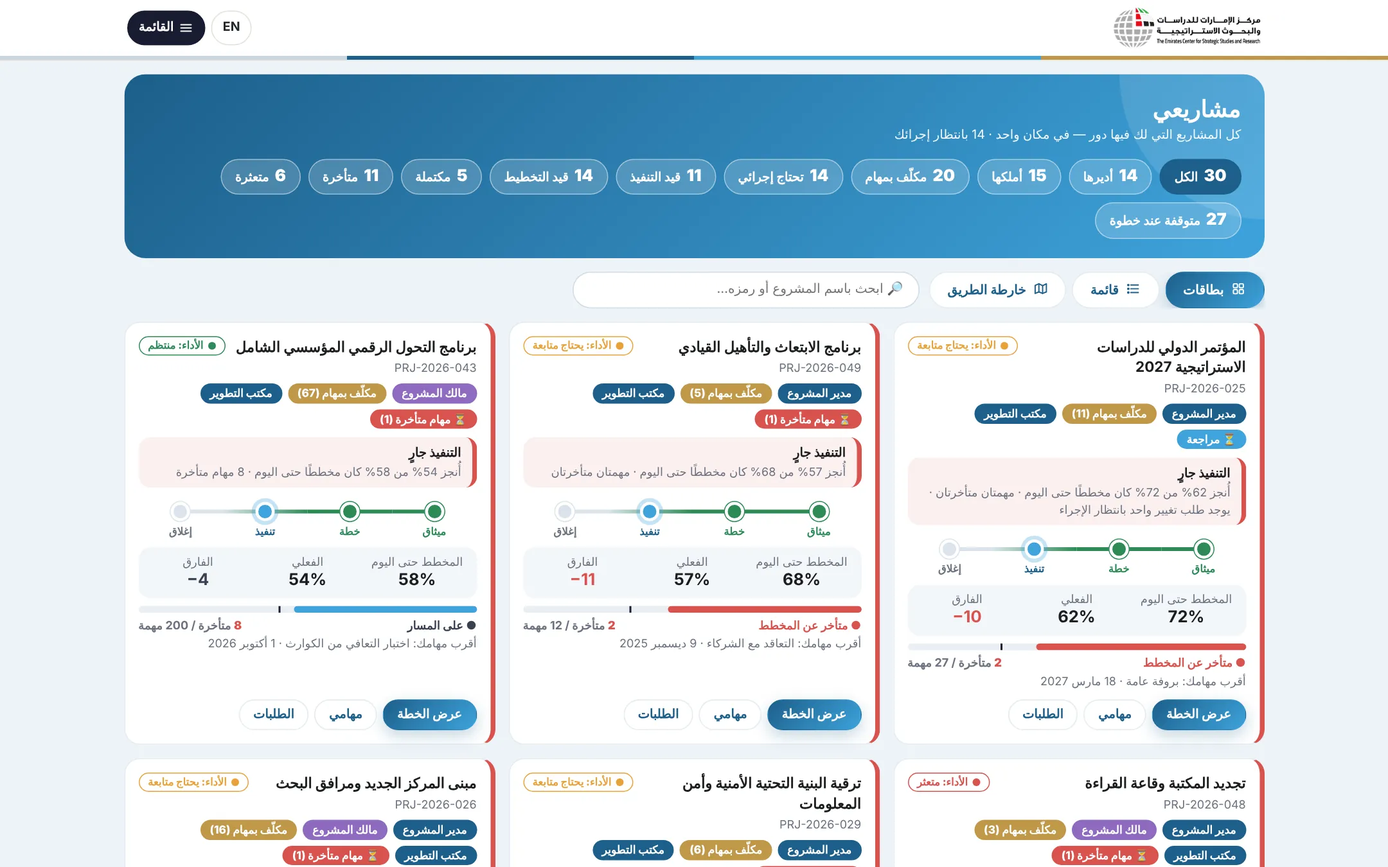
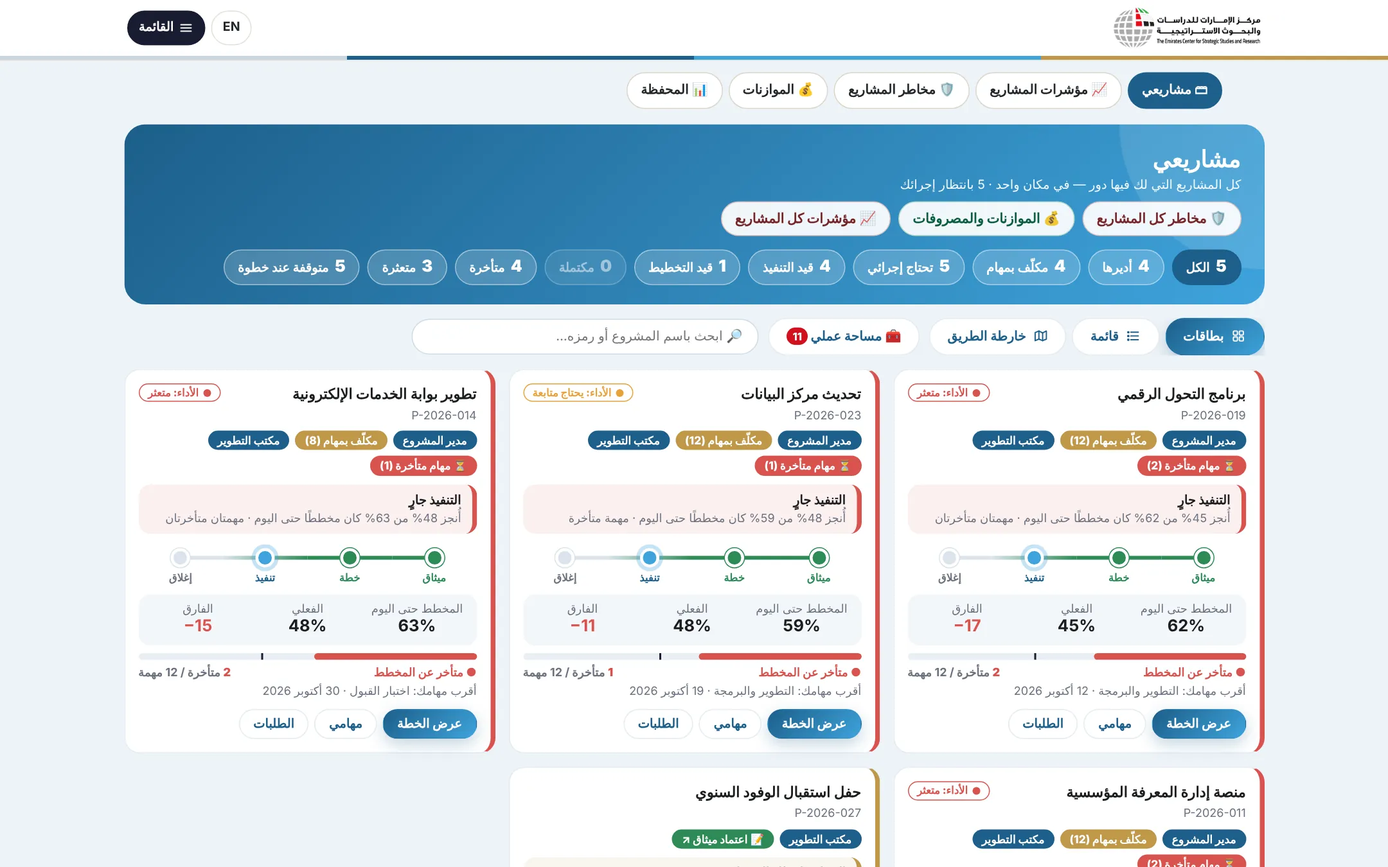
Audit fixes: help guide covers My workspace, updates, analysis board, audit log and optional features; risk review saves the new score before setting the next review date; pages load from the network first so new versions show on the first open; tour My projects screen refreshed
Claude-Session: https://claude.ai/code/session_01AUYYeyahPGT9XEoL5uypg9

diff --git a/tour/scenes.js b/tour/scenes.js
@@ -1,1 +1,1 @@
-window.SCENES={"phone":{"m":true,"ar":{"img":"img/phone_ar.webp","w":430,"h":932,"t":{"hero":{"x":14,"y":76,"w":402,"h":200},"nav":{"x":12,"y":847,"w":406,"h":75},"chat":{"x":14,"y":779,"w":54,"h":54},"create":{"x":298,"y":786,"w":119,"h":47},"tasksfab":{"x":282,"y":854,"w":63,"h":61}}},"en":{"img":"img/phone_en.webp","w":430,"h":932,"t":{"hero":{"x":14,"y":76,"w":402,"h":222},"nav":{"x":12,"y":847,"w":406,"h":75},"chat":{"x":362,"y":779,"w":54,"h":54},"create":{"x":14,"y":786,"w":136,"h":47},"tasksfab":{"x":85,"y":854,"w":63,"h":61}}}},"home":{"m":false,"ar":{"img":"img/home_ar.webp?v=2","w":1440,"h":900,"t":{"hero":{"x":234,"y":76,"w":972,"h":200},"summary":{"x":258,"y":138,"w":924,"h":45},"search":{"x":308,"y":197,"w":824,"h":45},"menu":{"x":234,"y":11,"w":81,"h":36},"lang":{"x":321,"y":11,"w":42,"h":36},"journey":{"x":234,"y":288,"w":972,"h":56},"tabs2":{"x":234,"y":358,"w":972,"h":41}}},"en":{"img":"img/home_en.webp?v=2","w":1440,"h":900,"t":{"hero":{"x":234,"y":76,"w":972,"h":200},"summary":{"x":258,"y":138,"w":924,"h":45},"search":{"x":308,"y":197,"w":824,"h":45},"menu":{"x":1125,"y":11,"w":81,"h":36},"lang":{"x":1066,"y":11,"w":53,"h":36},"journey":{"x":234,"y":288,"w":972,"h":56},"tabs2":{"x":234,"y":358,"w":972,"h":41}}}},"menu":{"m":false,"ar":{"img":"img/menu_ar.webp?v=2","w":1440,"h":900,"t":{"drawer":{"x":234,"y":53,"w":250,"h":402}}},"en":{"img":"img/menu_en.webp?v=2","w":1440,"h":900,"t":{"drawer":{"x":956,"y":53,"w":250,"h":402}}}},"board":{"m":false,"ar":{"img":"img/board_ar.webp?v=2","w":1440,"h":900,"t":{"scope":{"x":260,"y":149,"w":920,"h":37},"chips":{"x":260,"y":194,"w":920,"h":33},"legend":{"x":249,"y":280,"w":123,"h":35},"cols":{"x":249,"y":326,"w":942,"h":552},"col1":{"x":1011,"y":326,"w":180,"h":548},"col3":{"x":630,"y":326,"w":180,"h":548},"card":{"x":1021,"y":366,"w":162,"h":112},"act":{"x":1068,"y":447,"w":103,"h":25},"pj":{"x":1029,"y":447,"w":33,"h":25},"views":{"x":1001,"y":98,"w":142,"h":31},"more":{"x":1041,"y":280,"w":150,"h":35},"create":{"x":1308,"y":837,"w":119,"h":47},"chat":{"x":14,"y":765,"w":54,"h":54}}},"en":{"img":"img/board_en.webp?v=2","w":1440,"h":900,"t":{"scope":{"x":260,"y":149,"w":920,"h":37},"chips":{"x":260,"y":194,"w":920,"h":33},"legend":{"x":1098,"y":280,"w":93,"h":35},"cols":{"x":249,"y":326,"w":942,"h":552},"col1":{"x":249,"y":326,"w":180,"h":548},"col3":{"x":630,"y":326,"w":180,"h":548},"card":{"x":257,"y":366,"w":162,"h":112},"act":{"x":269,"y":447,"w":103,"h":25},"pj":{"x":378,"y":447,"w":33,"h":25},"views":{"x":342,"y":98,"w":161,"h":31},"more":{"x":249,"y":280,"w":179,"h":35},"create":{"x":14,"y":837,"w":136,"h":47},"chat":{"x":1372,"y":765,"w":54,"h":54}}}},"create":{"m":false,"ar":{"img":"img/create_ar.webp?v=2","w":1440,"h":900,"t":{"pop":{"x":1216,"y":648,"w":210,"h":184},"create":{"x":1308,"y":837,"w":119,"h":47}}},"en":{"img":"img/create_en.webp?v=2","w":1440,"h":900,"t":{"pop":{"x":14,"y":648,"w":210,"h":184},"create":{"x":14,"y":837,"w":136,"h":47}}}},"services":{"m":false,"ar":{"img":"img/services_ar.webp","w":1440,"h":900,"t":{"cards":{"x":234,"y":351,"w":972,"h":439},"card1":{"x":234,"y":351,"w":972,"h":439}}},"en":{"img":"img/services_en.webp","w":1440,"h":900,"t":{"cards":{"x":234,"y":328,"w":972,"h":461},"card1":{"x":234,"y":328,"w":972,"h":461}}}},"charter_home":{"m":false,"ar":{"img":"img/charter_home_ar.webp?v=2","w":1200,"h":860,"t":{"new":{"x":471,"y":144,"w":111,"h":43},"draft":{"x":180,"y":144,"w":157,"h":43},"kpis":{"x":162,"y":219,"w":876,"h":101},"list":{"x":162,"y":332,"w":876,"h":579},"tabs":{"x":162,"y":74,"w":876,"h":38}}},"en":{"img":"img/charter_home_en.webp?v=2","w":1200,"h":860,"t":{"new":{"x":635,"y":144,"w":135,"h":43},"draft":{"x":858,"y":144,"w":162,"h":43},"kpis":{"x":162,"y":219,"w":876,"h":101},"list":{"x":162,"y":332,"w":876,"h":620},"tabs":{"x":162,"y":74,"w":876,"h":38}}}},"ch_draft":{"m":false,"ar":{"img":"img/ch_draft_ar.webp","w":1200,"h":860,"t":{"head":{"x":177,"y":234,"w":841,"h":61},"prog":{"x":162,"y":451,"w":876,"h":27},"tabs":{"x":162,"y":486,"w":876,"h":54},"svc":{"x":162,"y":158,"w":876,"h":51},"fields":{"x":162,"y":545,"w":876,"h":976},"submit":{"x":552,"y":809,"w":109,"h":43},"save":{"x":670,"y":809,"w":117,"h":43},"files":{"x":413,"y":809,"w":131,"h":43}}},"en":{"img":"img/ch_draft_en.webp","w":1200,"h":860,"t":{"head":{"x":182,"y":234,"w":841,"h":61},"prog":{"x":162,"y":451,"w":876,"h":27},"tabs":{"x":162,"y":486,"w":876,"h":54},"svc":{"x":162,"y":158,"w":876,"h":51},"fields":{"x":162,"y":545,"w":876,"h":996},"submit":{"x":523,"y":809,"w":137,"h":43},"save":{"x":411,"y":809,"w":104,"h":43},"files":{"x":668,"y":809,"w":121,"h":43}}}},"plan_new":{"m":false,"ar":{"img":"img/plan_new_ar.webp","w":1200,"h":860,"t":{"list":{"x":177,"y":173,"w":846,"h":43},"start":{"x":915,"y":522,"w":92,"h":31},"tpl":{"x":162,"y":158,"w":876,"h":738}}},"en":{"img":"img/plan_new_en.webp","w":1200,"h":860,"t":{"list":{"x":177,"y":173,"w":846,"h":43},"start":{"x":193,"y":522,"w":114,"h":31},"tpl":{"x":162,"y":158,"w":876,"h":738}}}},"pl_draft":{"m":false,"ar":{"img":"img/pl_draft_ar.webp","w":1200,"h":860,"t":{"head":{"x":177,"y":234,"w":841,"h":61},"views":{"x":542,"y":579,"w":481,"h":37},"lab":{"x":636,"y":625,"w":126,"h":35},"checks":{"x":177,"y":717,"w":846,"h":26},"submit":{"x":554,"y":809,"w":106,"h":43},"collab":{"x":624,"y":486,"w":179,"h":40}}},"en":{"img":"img/pl_draft_en.webp","w":1200,"h":860,"t":{"head":{"x":182,"y":234,"w":841,"h":61},"views":{"x":177,"y":579,"w":596,"h":37},"lab":{"x":659,"y":625,"w":102,"h":35},"checks":{"x":177,"y":717,"w":846,"h":26},"submit":{"x":533,"y":809,"w":116,"h":43},"collab":{"x":420,"y":486,"w":181,"h":40}}}},"pl_gantt":{"m":false,"ar":{"img":"img/pl_gantt_ar.webp","w":1200,"h":860,"t":{"tab":{"x":837,"y":60,"w":94,"h":35}}},"en":{"img":"img/pl_gantt_en.webp","w":1200,"h":860,"t":{"tab":{"x":265,"y":60,"w":121,"h":35}}}},"tasks":{"m":false,"ar":{"img":"img/tasks_ar.webp","w":1200,"h":860,"t":{"scope":{"x":234,"y":195,"w":732,"h":41},"chips":{"x":234,"y":345,"w":732,"h":88},"add":{"x":835,"y":487,"w":131,"h":41},"cal":{"x":659,"y":487,"w":168,"h":41},"views":{"x":234,"y":296,"w":732,"h":41}}},"en":{"img":"img/tasks_en.webp","w":1200,"h":860,"t":{"scope":{"x":234,"y":195,"w":732,"h":41},"chips":{"x":234,"y":345,"w":732,"h":88},"add":{"x":234,"y":487,"w":200,"h":41},"cal":{"x":442,"y":487,"w":194,"h":41},"views":{"x":234,"y":296,"w":732,"h":41}}}},"tasks2":{"m":false,"ar":{"img":"img/tasks2_ar.webp","w":1200,"h":860,"t":{"kpis":{"x":249,"y":328,"w":702,"h":259}}},"en":{"img":"img/tasks2_en.webp","w":1200,"h":860,"t":{"kpis":{"x":249,"y":328,"w":702,"h":259}}}},"cr_draft":{"m":false,"ar":{"img":"img/cr_draft_ar.webp","w":1200,"h":860,"t":{"link":{"x":177,"y":525,"w":846,"h":128},"tabs":{"x":162,"y":422,"w":876,"h":54},"submit":{"x":553,"y":809,"w":107,"h":43}}},"en":{"img":"img/cr_draft_en.webp","w":1200,"h":860,"t":{"link":{"x":177,"y":525,"w":846,"h":128},"tabs":{"x":162,"y":422,"w":876,"h":54},"submit":{"x":521,"y":809,"w":140,"h":43}}}},"cl_draft":{"m":false,"ar":{"img":"img/cl_draft_ar.webp","w":1200,"h":860,"t":{"pick":{"x":177,"y":642,"w":846,"h":128},"tabs":{"x":162,"y":539,"w":876,"h":54},"submit":{"x":553,"y":809,"w":108,"h":43},"assigned":{"x":177,"y":379,"w":841,"h":45}}},"en":{"img":"img/cl_draft_en.webp","w":1200,"h":860,"t":{"pick":{"x":177,"y":642,"w":846,"h":128},"tabs":{"x":162,"y":539,"w":876,"h":54},"submit":{"x":527,"y":809,"w":129,"h":43},"assigned":{"x":182,"y":379,"w":841,"h":45}}}},"charter_review":{"m":false,"ar":{"img":"img/charter_review_ar.webp","w":1200,"h":860,"t":{"status":{"x":177,"y":234,"w":84,"h":23},"head":{"x":177,"y":234,"w":841,"h":61},"bar":{"x":150,"y":770,"w":900,"h":82},"sign":{"x":869,"y":770,"w":160,"h":43},"direct":{"x":566,"y":770,"w":294,"h":43},"back":{"x":436,"y":770,"w":122,"h":43},"feas":{"x":243,"y":770,"w":185,"h":43},"reject":{"x":171,"y":770,"w":64,"h":43},"notes":{"x":795,"y":451,"w":243,"h":43},"word":{"x":863,"y":381,"w":155,"h":43}}},"en":{"img":"img/charter_review_en.webp","w":1200,"h":860,"t":{"status":{"x":923,"y":234,"w":100,"h":23},"head":{"x":182,"y":234,"w":841,"h":61},"bar":{"x":150,"y":758,"w":900,"h":94},"sign":{"x":192,"y":758,"w":221,"h":43},"direct":{"x":421,"y":758,"w":417,"h":43},"back":{"x":846,"y":758,"w":161,"h":43},"feas":{"x":345,"y":809,"w":296,"h":43},"reject":{"x":649,"y":809,"w":76,"h":43},"notes":{"x":162,"y":451,"w":232,"h":43},"word":{"x":182,"y":381,"w":159,"h":43}}}},"review_flow":{"m":false,"ar":{"img":"img/review_flow_ar.webp","w":1200,"h":860,"t":{"followers":{"x":177,"y":149,"w":846,"h":198},"esc":{"x":177,"y":355,"w":846,"h":162},"stage1":{"x":177,"y":524,"w":846,"h":210},"bar":{"x":150,"y":770,"w":900,"h":82}}},"en":{"img":"img/review_flow_en.webp","w":1200,"h":860,"t":{"followers":{"x":177,"y":149,"w":846,"h":198},"esc":{"x":177,"y":355,"w":846,"h":162},"stage1":{"x":177,"y":524,"w":846,"h":210},"bar":{"x":150,"y":758,"w":900,"h":94}}}},"inbox":{"m":false,"ar":{"img":"img/inbox_ar.webp","w":1200,"h":860,"t":{"filters":{"x":234,"y":237,"w":732,"h":41},"svc":{"x":234,"y":286,"w":732,"h":41},"item":{"x":249,"y":15852,"w":702,"h":37}}},"en":{"img":"img/inbox_en.webp","w":1200,"h":860,"t":{"filters":{"x":234,"y":237,"w":732,"h":88},"svc":{"x":234,"y":333,"w":732,"h":41},"item":{"x":249,"y":15923,"w":702,"h":37}}}},"myprojects":{"m":false,"ar":{"img":"img/myprojects_ar.webp","w":1440,"h":900,"t":{"kpi":{"x":129,"y":77,"w":1183,"h":191},"views":{"x":964,"y":282,"w":347,"h":38},"card":{"x":927,"y":334,"w":385,"h":439},"health":{"x":942,"y":349,"w":115,"h":20},"steps":{"x":927,"y":334,"w":385,"h":439},"metrics":{"x":942,"y":607,"w":351,"h":53},"btns":{"x":942,"y":716,"w":351,"h":42}}},"en":{"img":"img/myprojects_en.webp","w":1440,"h":900,"t":{"kpi":{"x":129,"y":77,"w":1183,"h":191},"views":{"x":129,"y":282,"w":319,"h":38},"card":{"x":129,"y":334,"w":385,"h":460},"health":{"x":298,"y":349,"w":200,"h":20},"steps":{"x":129,"y":334,"w":385,"h":460},"metrics":{"x":148,"y":628,"w":351,"h":53},"btns":{"x":148,"y":737,"w":351,"h":42}}}},"portfolio":{"m":false,"ar":{"img":"img/portfolio_ar.webp","w":1440,"h":900,"t":{"tabs":{"x":134,"y":195,"w":1172,"h":134},"kpis":{"x":134,"y":412,"w":1172,"h":100},"prio":{"x":134,"y":523,"w":1172,"h":548}}},"en":{"img":"img/portfolio_en.webp","w":1440,"h":900,"t":{"tabs":{"x":134,"y":195,"w":1172,"h":134},"kpis":{"x":134,"y":412,"w":1172,"h":100},"prio":{"x":134,"y":523,"w":1172,"h":548}}}},"chat_open":{"m":false,"ar":{"img":"img/chat_open_ar.webp?v=2","w":1440,"h":900,"t":{"rail":{"x":939,"y":136,"w":318,"h":751},"conv":{"x":183,"y":132,"w":744,"h":693},"composer":{"x":191,"y":831,"w":728,"h":46},"mic":{"x":191,"y":831,"w":46,"h":46},"head":{"x":1009,"y":278,"w":174,"h":46}}},"en":{"img":"img/chat_open_en.webp?v=2","w":1440,"h":900,"t":{"rail":{"x":939,"y":136,"w":318,"h":751},"conv":{"x":183,"y":132,"w":744,"h":693},"composer":{"x":191,"y":831,"w":728,"h":46},"mic":{"x":191,"y":831,"w":46,"h":46},"head":{"x":1019,"y":300,"w":164,"h":46}}}},"ratings":{"m":false,"ar":{"img":"img/ratings_ar.webp","w":1200,"h":860,"t":{"filters":{"x":124,"y":189,"w":952,"h":175},"kpis":{"x":124,"y":378,"w":952,"h":78},"how":{"x":124,"y":469,"w":952,"h":55},"dist":{"x":124,"y":538,"w":952,"h":212}}},"en":{"img":"img/ratings_en.webp","w":1200,"h":860,"t":{"filters":{"x":124,"y":189,"w":952,"h":175},"kpis":{"x":124,"y":378,"w":952,"h":78},"how":{"x":124,"y":469,"w":952,"h":55},"dist":{"x":124,"y":538,"w":952,"h":212}}}},"workspace":{"m":false,"ar":{"img":"img/workspace_ar.webp?v=2","w":1440,"h":900,"t":{"btn":{"x":795,"y":314,"w":159,"h":38},"upd":{"x":129,"y":367,"w":1183,"h":331},"secs":{"x":129,"y":749,"w":1183,"h":73}}},"en":{"img":"img/workspace_en.webp?v=2","w":1440,"h":900,"t":{"btn":{"x":458,"y":314,"w":183,"h":38},"upd":{"x":129,"y":366,"w":1183,"h":331},"secs":{"x":129,"y":749,"w":1183,"h":73}}}},"ws_risks":{"m":false,"ar":{"img":"img/ws_risks_ar.webp?v=2","w":1440,"h":900,"t":{"quick":{"x":143,"y":646,"w":1152,"h":44},"row":{"x":142,"y":559,"w":1157,"h":131}}},"en":{"img":"img/ws_risks_en.webp?v=2","w":1440,"h":900,"t":{"quick":{"x":146,"y":646,"w":1152,"h":44},"row":{"x":142,"y":559,"w":1157,"h":131}}}},"ws_risk":{"m":false,"ar":{"img":"img/ws_risk_ar.webp?v=2","w":1440,"h":900,"t":{"sheet":{"x":420,"y":54,"w":600,"h":792},"quick":{"x":438,"y":269,"w":564,"h":183},"edit":{"x":438,"y":461,"w":564,"h":320}}},"en":{"img":"img/ws_risk_en.webp?v=2","w":1440,"h":900,"t":{"sheet":{"x":420,"y":54,"w":600,"h":792},"quick":{"x":438,"y":269,"w":564,"h":183},"edit":{"x":438,"y":461,"w":564,"h":320}}}},"ws_kpi":{"m":false,"ar":{"img":"img/ws_kpi_ar.webp?v=2","w":1440,"h":900,"t":{"sheet":{"x":420,"y":114,"w":600,"h":672},"hist":{"x":438,"y":366,"w":564,"h":84},"entry":{"x":438,"y":460,"w":564,"h":261}}},"en":{"img":"img/ws_kpi_en.webp?v=2","w":1440,"h":900,"t":{"sheet":{"x":420,"y":114,"w":600,"h":672},"hist":{"x":438,"y":366,"w":564,"h":84},"entry":{"x":438,"y":460,"w":564,"h":261}}}},"ws_acts":{"m":false,"ar":{"img":"img/ws_acts_ar.webp?v=2","w":1440,"h":900,"t":{"sheet":{"x":420,"y":319,"w":600,"h":262},"act":{"x":438,"y":467,"w":564,"h":49}}},"en":{"img":"img/ws_acts_en.webp?v=2","w":1440,"h":900,"t":{"sheet":{"x":420,"y":319,"w":600,"h":262},"act":{"x":438,"y":467,"w":564,"h":49}}}},"ws_bud":{"m":false,"ar":{"img":"img/ws_bud_ar.webp?v=2","w":1440,"h":900,"t":{"sheet":{"x":420,"y":210,"w":600,"h":480},"entry":{"x":438,"y":436,"w":564,"h":189},"link":{"x":438,"y":633,"w":564,"h":21}}},"en":{"img":"img/ws_bud_en.webp?v=2","w":1440,"h":900,"t":{"sheet":{"x":420,"y":210,"w":600,"h":480},"entry":{"x":438,"y":436,"w":564,"h":189},"link":{"x":438,"y":633,"w":564,"h":21}}}}};
+window.SCENES={"phone":{"m":true,"ar":{"img":"img/phone_ar.webp","w":430,"h":932,"t":{"hero":{"x":14,"y":76,"w":402,"h":200},"nav":{"x":12,"y":847,"w":406,"h":75},"chat":{"x":14,"y":779,"w":54,"h":54},"create":{"x":298,"y":786,"w":119,"h":47},"tasksfab":{"x":282,"y":854,"w":63,"h":61}}},"en":{"img":"img/phone_en.webp","w":430,"h":932,"t":{"hero":{"x":14,"y":76,"w":402,"h":222},"nav":{"x":12,"y":847,"w":406,"h":75},"chat":{"x":362,"y":779,"w":54,"h":54},"create":{"x":14,"y":786,"w":136,"h":47},"tasksfab":{"x":85,"y":854,"w":63,"h":61}}}},"home":{"m":false,"ar":{"img":"img/home_ar.webp?v=2","w":1440,"h":900,"t":{"hero":{"x":234,"y":76,"w":972,"h":200},"summary":{"x":258,"y":138,"w":924,"h":45},"search":{"x":308,"y":197,"w":824,"h":45},"menu":{"x":234,"y":11,"w":81,"h":36},"lang":{"x":321,"y":11,"w":42,"h":36},"journey":{"x":234,"y":288,"w":972,"h":56},"tabs2":{"x":234,"y":358,"w":972,"h":41}}},"en":{"img":"img/home_en.webp?v=2","w":1440,"h":900,"t":{"hero":{"x":234,"y":76,"w":972,"h":200},"summary":{"x":258,"y":138,"w":924,"h":45},"search":{"x":308,"y":197,"w":824,"h":45},"menu":{"x":1125,"y":11,"w":81,"h":36},"lang":{"x":1066,"y":11,"w":53,"h":36},"journey":{"x":234,"y":288,"w":972,"h":56},"tabs2":{"x":234,"y":358,"w":972,"h":41}}}},"menu":{"m":false,"ar":{"img":"img/menu_ar.webp?v=2","w":1440,"h":900,"t":{"drawer":{"x":234,"y":53,"w":250,"h":402}}},"en":{"img":"img/menu_en.webp?v=2","w":1440,"h":900,"t":{"drawer":{"x":956,"y":53,"w":250,"h":402}}}},"board":{"m":false,"ar":{"img":"img/board_ar.webp?v=2","w":1440,"h":900,"t":{"scope":{"x":260,"y":149,"w":920,"h":37},"chips":{"x":260,"y":194,"w":920,"h":33},"legend":{"x":249,"y":280,"w":123,"h":35},"cols":{"x":249,"y":326,"w":942,"h":552},"col1":{"x":1011,"y":326,"w":180,"h":548},"col3":{"x":630,"y":326,"w":180,"h":548},"card":{"x":1021,"y":366,"w":162,"h":112},"act":{"x":1068,"y":447,"w":103,"h":25},"pj":{"x":1029,"y":447,"w":33,"h":25},"views":{"x":1001,"y":98,"w":142,"h":31},"more":{"x":1041,"y":280,"w":150,"h":35},"create":{"x":1308,"y":837,"w":119,"h":47},"chat":{"x":14,"y":765,"w":54,"h":54}}},"en":{"img":"img/board_en.webp?v=2","w":1440,"h":900,"t":{"scope":{"x":260,"y":149,"w":920,"h":37},"chips":{"x":260,"y":194,"w":920,"h":33},"legend":{"x":1098,"y":280,"w":93,"h":35},"cols":{"x":249,"y":326,"w":942,"h":552},"col1":{"x":249,"y":326,"w":180,"h":548},"col3":{"x":630,"y":326,"w":180,"h":548},"card":{"x":257,"y":366,"w":162,"h":112},"act":{"x":269,"y":447,"w":103,"h":25},"pj":{"x":378,"y":447,"w":33,"h":25},"views":{"x":342,"y":98,"w":161,"h":31},"more":{"x":249,"y":280,"w":179,"h":35},"create":{"x":14,"y":837,"w":136,"h":47},"chat":{"x":1372,"y":765,"w":54,"h":54}}}},"create":{"m":false,"ar":{"img":"img/create_ar.webp?v=2","w":1440,"h":900,"t":{"pop":{"x":1216,"y":648,"w":210,"h":184},"create":{"x":1308,"y":837,"w":119,"h":47}}},"en":{"img":"img/create_en.webp?v=2","w":1440,"h":900,"t":{"pop":{"x":14,"y":648,"w":210,"h":184},"create":{"x":14,"y":837,"w":136,"h":47}}}},"services":{"m":false,"ar":{"img":"img/services_ar.webp","w":1440,"h":900,"t":{"cards":{"x":234,"y":351,"w":972,"h":439},"card1":{"x":234,"y":351,"w":972,"h":439}}},"en":{"img":"img/services_en.webp","w":1440,"h":900,"t":{"cards":{"x":234,"y":328,"w":972,"h":461},"card1":{"x":234,"y":328,"w":972,"h":461}}}},"charter_home":{"m":false,"ar":{"img":"img/charter_home_ar.webp?v=2","w":1200,"h":860,"t":{"new":{"x":471,"y":144,"w":111,"h":43},"draft":{"x":180,"y":144,"w":157,"h":43},"kpis":{"x":162,"y":219,"w":876,"h":101},"list":{"x":162,"y":332,"w":876,"h":579},"tabs":{"x":162,"y":74,"w":876,"h":38}}},"en":{"img":"img/charter_home_en.webp?v=2","w":1200,"h":860,"t":{"new":{"x":635,"y":144,"w":135,"h":43},"draft":{"x":858,"y":144,"w":162,"h":43},"kpis":{"x":162,"y":219,"w":876,"h":101},"list":{"x":162,"y":332,"w":876,"h":620},"tabs":{"x":162,"y":74,"w":876,"h":38}}}},"ch_draft":{"m":false,"ar":{"img":"img/ch_draft_ar.webp","w":1200,"h":860,"t":{"head":{"x":177,"y":234,"w":841,"h":61},"prog":{"x":162,"y":451,"w":876,"h":27},"tabs":{"x":162,"y":486,"w":876,"h":54},"svc":{"x":162,"y":158,"w":876,"h":51},"fields":{"x":162,"y":545,"w":876,"h":976},"submit":{"x":552,"y":809,"w":109,"h":43},"save":{"x":670,"y":809,"w":117,"h":43},"files":{"x":413,"y":809,"w":131,"h":43}}},"en":{"img":"img/ch_draft_en.webp","w":1200,"h":860,"t":{"head":{"x":182,"y":234,"w":841,"h":61},"prog":{"x":162,"y":451,"w":876,"h":27},"tabs":{"x":162,"y":486,"w":876,"h":54},"svc":{"x":162,"y":158,"w":876,"h":51},"fields":{"x":162,"y":545,"w":876,"h":996},"submit":{"x":523,"y":809,"w":137,"h":43},"save":{"x":411,"y":809,"w":104,"h":43},"files":{"x":668,"y":809,"w":121,"h":43}}}},"plan_new":{"m":false,"ar":{"img":"img/plan_new_ar.webp","w":1200,"h":860,"t":{"list":{"x":177,"y":173,"w":846,"h":43},"start":{"x":915,"y":522,"w":92,"h":31},"tpl":{"x":162,"y":158,"w":876,"h":738}}},"en":{"img":"img/plan_new_en.webp","w":1200,"h":860,"t":{"list":{"x":177,"y":173,"w":846,"h":43},"start":{"x":193,"y":522,"w":114,"h":31},"tpl":{"x":162,"y":158,"w":876,"h":738}}}},"pl_draft":{"m":false,"ar":{"img":"img/pl_draft_ar.webp","w":1200,"h":860,"t":{"head":{"x":177,"y":234,"w":841,"h":61},"views":{"x":542,"y":579,"w":481,"h":37},"lab":{"x":636,"y":625,"w":126,"h":35},"checks":{"x":177,"y":717,"w":846,"h":26},"submit":{"x":554,"y":809,"w":106,"h":43},"collab":{"x":624,"y":486,"w":179,"h":40}}},"en":{"img":"img/pl_draft_en.webp","w":1200,"h":860,"t":{"head":{"x":182,"y":234,"w":841,"h":61},"views":{"x":177,"y":579,"w":596,"h":37},"lab":{"x":659,"y":625,"w":102,"h":35},"checks":{"x":177,"y":717,"w":846,"h":26},"submit":{"x":533,"y":809,"w":116,"h":43},"collab":{"x":420,"y":486,"w":181,"h":40}}}},"pl_gantt":{"m":false,"ar":{"img":"img/pl_gantt_ar.webp","w":1200,"h":860,"t":{"tab":{"x":837,"y":60,"w":94,"h":35}}},"en":{"img":"img/pl_gantt_en.webp","w":1200,"h":860,"t":{"tab":{"x":265,"y":60,"w":121,"h":35}}}},"tasks":{"m":false,"ar":{"img":"img/tasks_ar.webp","w":1200,"h":860,"t":{"scope":{"x":234,"y":195,"w":732,"h":41},"chips":{"x":234,"y":345,"w":732,"h":88},"add":{"x":835,"y":487,"w":131,"h":41},"cal":{"x":659,"y":487,"w":168,"h":41},"views":{"x":234,"y":296,"w":732,"h":41}}},"en":{"img":"img/tasks_en.webp","w":1200,"h":860,"t":{"scope":{"x":234,"y":195,"w":732,"h":41},"chips":{"x":234,"y":345,"w":732,"h":88},"add":{"x":234,"y":487,"w":200,"h":41},"cal":{"x":442,"y":487,"w":194,"h":41},"views":{"x":234,"y":296,"w":732,"h":41}}}},"tasks2":{"m":false,"ar":{"img":"img/tasks2_ar.webp","w":1200,"h":860,"t":{"kpis":{"x":249,"y":328,"w":702,"h":259}}},"en":{"img":"img/tasks2_en.webp","w":1200,"h":860,"t":{"kpis":{"x":249,"y":328,"w":702,"h":259}}}},"cr_draft":{"m":false,"ar":{"img":"img/cr_draft_ar.webp","w":1200,"h":860,"t":{"link":{"x":177,"y":525,"w":846,"h":128},"tabs":{"x":162,"y":422,"w":876,"h":54},"submit":{"x":553,"y":809,"w":107,"h":43}}},"en":{"img":"img/cr_draft_en.webp","w":1200,"h":860,"t":{"link":{"x":177,"y":525,"w":846,"h":128},"tabs":{"x":162,"y":422,"w":876,"h":54},"submit":{"x":521,"y":809,"w":140,"h":43}}}},"cl_draft":{"m":false,"ar":{"img":"img/cl_draft_ar.webp","w":1200,"h":860,"t":{"pick":{"x":177,"y":642,"w":846,"h":128},"tabs":{"x":162,"y":539,"w":876,"h":54},"submit":{"x":553,"y":809,"w":108,"h":43},"assigned":{"x":177,"y":379,"w":841,"h":45}}},"en":{"img":"img/cl_draft_en.webp","w":1200,"h":860,"t":{"pick":{"x":177,"y":642,"w":846,"h":128},"tabs":{"x":162,"y":539,"w":876,"h":54},"submit":{"x":527,"y":809,"w":129,"h":43},"assigned":{"x":182,"y":379,"w":841,"h":45}}}},"charter_review":{"m":false,"ar":{"img":"img/charter_review_ar.webp","w":1200,"h":860,"t":{"status":{"x":177,"y":234,"w":84,"h":23},"head":{"x":177,"y":234,"w":841,"h":61},"bar":{"x":150,"y":770,"w":900,"h":82},"sign":{"x":869,"y":770,"w":160,"h":43},"direct":{"x":566,"y":770,"w":294,"h":43},"back":{"x":436,"y":770,"w":122,"h":43},"feas":{"x":243,"y":770,"w":185,"h":43},"reject":{"x":171,"y":770,"w":64,"h":43},"notes":{"x":795,"y":451,"w":243,"h":43},"word":{"x":863,"y":381,"w":155,"h":43}}},"en":{"img":"img/charter_review_en.webp","w":1200,"h":860,"t":{"status":{"x":923,"y":234,"w":100,"h":23},"head":{"x":182,"y":234,"w":841,"h":61},"bar":{"x":150,"y":758,"w":900,"h":94},"sign":{"x":192,"y":758,"w":221,"h":43},"direct":{"x":421,"y":758,"w":417,"h":43},"back":{"x":846,"y":758,"w":161,"h":43},"feas":{"x":345,"y":809,"w":296,"h":43},"reject":{"x":649,"y":809,"w":76,"h":43},"notes":{"x":162,"y":451,"w":232,"h":43},"word":{"x":182,"y":381,"w":159,"h":43}}}},"review_flow":{"m":false,"ar":{"img":"img/review_flow_ar.webp","w":1200,"h":860,"t":{"followers":{"x":177,"y":149,"w":846,"h":198},"esc":{"x":177,"y":355,"w":846,"h":162},"stage1":{"x":177,"y":524,"w":846,"h":210},"bar":{"x":150,"y":770,"w":900,"h":82}}},"en":{"img":"img/review_flow_en.webp","w":1200,"h":860,"t":{"followers":{"x":177,"y":149,"w":846,"h":198},"esc":{"x":177,"y":355,"w":846,"h":162},"stage1":{"x":177,"y":524,"w":846,"h":210},"bar":{"x":150,"y":758,"w":900,"h":94}}}},"inbox":{"m":false,"ar":{"img":"img/inbox_ar.webp","w":1200,"h":860,"t":{"filters":{"x":234,"y":237,"w":732,"h":41},"svc":{"x":234,"y":286,"w":732,"h":41},"item":{"x":249,"y":15852,"w":702,"h":37}}},"en":{"img":"img/inbox_en.webp","w":1200,"h":860,"t":{"filters":{"x":234,"y":237,"w":732,"h":88},"svc":{"x":234,"y":333,"w":732,"h":41},"item":{"x":249,"y":15923,"w":702,"h":37}}}},"myprojects":{"m":false,"ar":{"img":"img/myprojects_ar.webp?v=2","w":1440,"h":900,"t":{"kpi":{"x":129,"y":129,"w":1183,"h":188},"views":{"x":964,"y":330,"w":347,"h":38},"card":{"x":927,"y":383,"w":385,"h":400},"health":{"x":942,"y":398,"w":86,"h":20},"steps":{"x":942,"y":569,"w":351,"h":40},"metrics":{"x":942,"y":617,"w":351,"h":53},"btns":{"x":942,"y":726,"w":351,"h":42}}},"en":{"img":"img/myprojects_en.webp?v=2","w":1440,"h":900,"t":{"kpi":{"x":129,"y":129,"w":1183,"h":233},"views":{"x":129,"y":376,"w":319,"h":38},"card":{"x":129,"y":428,"w":385,"h":421},"health":{"x":298,"y":443,"w":200,"h":20},"steps":{"x":148,"y":615,"w":351,"h":40},"metrics":{"x":148,"y":662,"w":351,"h":53},"btns":{"x":148,"y":792,"w":351,"h":42}}}},"portfolio":{"m":false,"ar":{"img":"img/portfolio_ar.webp","w":1440,"h":900,"t":{"tabs":{"x":134,"y":195,"w":1172,"h":134},"kpis":{"x":134,"y":412,"w":1172,"h":100},"prio":{"x":134,"y":523,"w":1172,"h":548}}},"en":{"img":"img/portfolio_en.webp","w":1440,"h":900,"t":{"tabs":{"x":134,"y":195,"w":1172,"h":134},"kpis":{"x":134,"y":412,"w":1172,"h":100},"prio":{"x":134,"y":523,"w":1172,"h":548}}}},"chat_open":{"m":false,"ar":{"img":"img/chat_open_ar.webp?v=2","w":1440,"h":900,"t":{"rail":{"x":939,"y":136,"w":318,"h":751},"conv":{"x":183,"y":132,"w":744,"h":693},"composer":{"x":191,"y":831,"w":728,"h":46},"mic":{"x":191,"y":831,"w":46,"h":46},"head":{"x":1009,"y":278,"w":174,"h":46}}},"en":{"img":"img/chat_open_en.webp?v=2","w":1440,"h":900,"t":{"rail":{"x":939,"y":136,"w":318,"h":751},"conv":{"x":183,"y":132,"w":744,"h":693},"composer":{"x":191,"y":831,"w":728,"h":46},"mic":{"x":191,"y":831,"w":46,"h":46},"head":{"x":1019,"y":300,"w":164,"h":46}}}},"ratings":{"m":false,"ar":{"img":"img/ratings_ar.webp","w":1200,"h":860,"t":{"filters":{"x":124,"y":189,"w":952,"h":175},"kpis":{"x":124,"y":378,"w":952,"h":78},"how":{"x":124,"y":469,"w":952,"h":55},"dist":{"x":124,"y":538,"w":952,"h":212}}},"en":{"img":"img/ratings_en.webp","w":1200,"h":860,"t":{"filters":{"x":124,"y":189,"w":952,"h":175},"kpis":{"x":124,"y":378,"w":952,"h":78},"how":{"x":124,"y":469,"w":952,"h":55},"dist":{"x":124,"y":538,"w":952,"h":212}}}},"workspace":{"m":false,"ar":{"img":"img/workspace_ar.webp?v=2","w":1440,"h":900,"t":{"btn":{"x":795,"y":314,"w":159,"h":38},"upd":{"x":129,"y":367,"w":1183,"h":331},"secs":{"x":129,"y":749,"w":1183,"h":73}}},"en":{"img":"img/workspace_en.webp?v=2","w":1440,"h":900,"t":{"btn":{"x":458,"y":314,"w":183,"h":38},"upd":{"x":129,"y":366,"w":1183,"h":331},"secs":{"x":129,"y":749,"w":1183,"h":73}}}},"ws_risks":{"m":false,"ar":{"img":"img/ws_risks_ar.webp?v=2","w":1440,"h":900,"t":{"quick":{"x":143,"y":646,"w":1152,"h":44},"row":{"x":142,"y":559,"w":1157,"h":131}}},"en":{"img":"img/ws_risks_en.webp?v=2","w":1440,"h":900,"t":{"quick":{"x":146,"y":646,"w":1152,"h":44},"row":{"x":142,"y":559,"w":1157,"h":131}}}},"ws_risk":{"m":false,"ar":{"img":"img/ws_risk_ar.webp?v=2","w":1440,"h":900,"t":{"sheet":{"x":420,"y":54,"w":600,"h":792},"quick":{"x":438,"y":269,"w":564,"h":183},"edit":{"x":438,"y":461,"w":564,"h":320}}},"en":{"img":"img/ws_risk_en.webp?v=2","w":1440,"h":900,"t":{"sheet":{"x":420,"y":54,"w":600,"h":792},"quick":{"x":438,"y":269,"w":564,"h":183},"edit":{"x":438,"y":461,"w":564,"h":320}}}},"ws_kpi":{"m":false,"ar":{"img":"img/ws_kpi_ar.webp?v=2","w":1440,"h":900,"t":{"sheet":{"x":420,"y":114,"w":600,"h":672},"hist":{"x":438,"y":366,"w":564,"h":84},"entry":{"x":438,"y":460,"w":564,"h":261}}},"en":{"img":"img/ws_kpi_en.webp?v=2","w":1440,"h":900,"t":{"sheet":{"x":420,"y":114,"w":600,"h":672},"hist":{"x":438,"y":366,"w":564,"h":84},"entry":{"x":438,"y":460,"w":564,"h":261}}}},"ws_acts":{"m":false,"ar":{"img":"img/ws_acts_ar.webp?v=2","w":1440,"h":900,"t":{"sheet":{"x":420,"y":319,"w":600,"h":262},"act":{"x":438,"y":467,"w":564,"h":49}}},"en":{"img":"img/ws_acts_en.webp?v=2","w":1440,"h":900,"t":{"sheet":{"x":420,"y":319,"w":600,"h":262},"act":{"x":438,"y":467,"w":564,"h":49}}}},"ws_bud":{"m":false,"ar":{"img":"img/ws_bud_ar.webp?v=2","w":1440,"h":900,"t":{"sheet":{"x":420,"y":210,"w":600,"h":480},"entry":{"x":438,"y":436,"w":564,"h":189},"link":{"x":438,"y":633,"w":564,"h":21}}},"en":{"img":"img/ws_bud_en.webp?v=2","w":1440,"h":900,"t":{"sheet":{"x":420,"y":210,"w":600,"h":480},"entry":{"x":438,"y":436,"w":564,"h":189},"link":{"x":438,"y":633,"w":564,"h":21}}}}};

diff --git a/help.html b/help.html
@@ -232,6 +232,19 @@ const SEC=[
  {h:['الهيكل القابل للتكبير','The zoomable structure'],p:['رسم الهيكل يُفتح <b>كاملًا</b> داخل الشاشة. كبّر وصغّر بأزرار + و − أو بعجلة الفأرة أو بإصبعين على الهاتف، واسحب لتحريك الرسم، و⤢ لعرضه كاملًا، و⛶ لملء الشاشة. نفس الأدوات في صفحة الخطة وصفحة المحفظة.','The structure diagram opens <b>in full</b> within the screen. Zoom with + and − buttons, the mouse wheel or two fingers on the phone; drag to pan, ⤢ to fit all and ⛶ for fullscreen. The same tools exist on the plan page and the portfolio page.'],v:'zoom'},
  {h:['المشاريع السرية','Confidential projects'],p:['إن حوّل مكتب التطوير المشروع إلى «سري» فلا يراه أصحاب الوحدات، ومن أُضيف إليه (بمهمة مثلًا) يرى مهامه فقط بأسمائها، أما بقية الصفوف وتفاصيل المشروع (الفريق والأحداث والمؤشرات) فتظهر مموّهة: الخانات والتواريخ والنسب موجودة لكن دون الأسماء والمكلّفين. ويُطبَّق ذلك من الخادم لا من الشاشة فقط.','If the office marks a project “confidential (own tasks only)”, anyone with tasks in it sees only their own tasks by name; other rows appear blurred: boxes, dates and progress remain but names and assignees are hidden. This is enforced by the server, not just the screen.']}]},
 
+{id:'ws',ic:'🧰',who:'all',t:['مساحة عملي والتحديثات','My workspace and updates'],lead:['كل ما ينتظرك في صفحة واحدة، وتنجزه من مكانه دون التنقل بين الصفحات.','Everything waiting for you on one page, done in place without moving between pages.'],go:['myprojects.html','افتح مشاريعي','Open My projects'],items:[
+ {h:['مساحة عملي','My workspace'],p:['في «مشاريعي» زر <b>🧰 مساحة عملي</b> عليه رقم بكل ما يحتاج إجراءك. تحته خمسة أقسام تبدأ مطوية، تفتح أي قسم بلمسة: <b>مهامي</b>، <b>بانتظار إجرائي</b>، <b>مخاطر المشاريع</b>، <b>مؤشراتي</b>، <b>موازنات مشاريعي</b>. «فتح الكل» و«إغلاق الكل» في الأعلى.','In My projects, the <b>🧰 My workspace</b> button shows a count of everything that needs your action. Below it are five folded sections; open any with a tap: <b>My tasks</b>, <b>Waiting for my action</b>, <b>Project risks</b>, <b>My KPIs</b>, <b>My projects’ budgets</b>. “Open all” and “Close all” are at the top.']},
+ {h:['كل عنصر يُفتح في نافذة','Every item opens in a panel'],p:['اضغط أي مهمة أو خطر أو مؤشر أو موازنة فتنفتح نافذة من أسفل الشاشة بالتفاصيل والإجراءات. <b>المهمة</b>: أزرار 25% و50% و75% و«أنجزتها في الموعد المحدد» و«أنجزتها اليوم». <b>بانتظار إجرائي</b>: زر «افتح» يفتح الطلب نفسه (الميثاق أو الخطة أو طلب التغيير) بشريط الإجراءات لتعتمد أو تراجع من مكانك. عند الإغلاق ترجع لمكانك في الصفحة.','Tap any task, risk, KPI or budget and a panel opens from the bottom with details and actions. <b>Task</b>: 25%, 50%, 75%, “Done on schedule” and “Done today”. <b>Waiting for my action</b>: “Open” shows the request itself (charter, plan or change request) with its actions bar, so you approve or review in place. Closing returns you to where you were.']},
+ {h:['مراجعة الخطر','Reviewing a risk'],p:['على كل خطر زر <b>✔ راجعته — لم يتغير</b> يسجّل المراجعة بلمسة. أو «مراجعة وتحديث» لتختار: لم يتغير، ازداد، انخفض. عند اختيار ازداد أو انخفض تعدّل الاحتمال والأثر فتتحدث الدرجة (مباشرة لمكتب التطوير، وبعد اعتماده لغيره). موعد المراجعة القادمة يُحسب تلقائيًا: 14 يومًا للمرتفع، 30 للمتوسط، 60 للمنخفض.','Each risk has <b>✔ Reviewed — no change</b>, which logs the review in one tap. Or “Review & update”: no change, up or down. Choosing up or down lets you change probability and impact so the score updates (directly for the office, after its approval for others). The next review date is set automatically: 14 days for high, 30 for medium, 60 for low.']},
+ {h:['إدخال قراءة مؤشر','Entering a KPI reading'],p:['افتح المؤشر لترى آخر القراءات بنسب إنجازها، ثم اختر الفترة واكتب القراءة؛ نسبة الإنجاز تظهر فور الكتابة، وتنبيه إذا كانت القيمة بعيدة جدًا عن القراءات السابقة. المؤشر المركّب يطلب البسط والمقام، والمؤشر الذي يتطلب دليلًا يطلب إرفاق ملف.','Open the KPI to see recent readings with their achievement, pick the period and type the reading; achievement shows as you type, with a warning if the value is far from earlier readings. A ratio KPI asks for numerator and denominator; a KPI that needs evidence asks for a file.']},
+ {h:['📌 تحديثات مطلوبة','📌 Updates needed'],p:['خاصية اختيارية يفعّلها مكتب التطوير. قراءات المؤشرات ومراجعات المخاطر وإجراءات الاستجابة المستحقة تظهر لمسؤولها في «مهامي» و«مساحة عملي» وفي بطاقة على الصفحة الرئيسية، مرتبة: المتأخر أولًا. زر <b>▶ ابدأ</b> يمرّ عليها واحدًا بعد الآخر. إن لم يكن للمؤشر أو الخطر مسؤول تذهب لمدير المشروع. يصل تذكير داخل النظام صباحًا قبل الموعد، ويوم الموعد، وعند التأخر. ولا تدخل هذه التحديثات في نسبة إنجاز مهام الخطة.','An optional feature the office switches on. Due KPI readings, risk reviews and response actions appear for their owner in My tasks, My workspace and as a card on the home page, late first. <b>▶ Start</b> walks through them one by one. With no owner set they go to the project manager. An in-app reminder comes in the morning before the date, on the day and when late. These updates do not count towards plan task progress.']},
+ {h:['المؤشرات والمخاطر والموازنات بلا مغادرة','KPIs, risks and budgets without leaving'],p:['داخل «مشاريعي»، أزرار <b>مؤشرات المشاريع</b> و<b>مخاطر المشاريع</b> و<b>الموازنات</b> والمحفظة، وروابط التفاصيل في النوافذ، تفتح الصفحة كاملة في نافذة فوق «مشاريعي». «فتح في صفحة كاملة» في أسفلها إن احتجت.','Inside My projects, <b>Project KPIs</b>, <b>Project risks</b>, <b>Budgets</b> and the portfolio, and the detail links in panels, open the full page in a panel over My projects. “Open full page” is at the bottom if you need it.']}]},
+{id:'kr',ic:'📈',who:'all',t:['المؤشرات والمخاطر والموازنات','KPIs, risks and budgets'],lead:['قياس أداء المشاريع ومتابعة مخاطرها وموازناتها.','Measuring project performance and following its risks and budgets.'],go:['kpis.html','افتح المؤشرات','Open KPIs'],items:[
+ {h:['📊 لوحة التحليل','📊 Analysis board'],p:['في صفحتي المؤشرات والمخاطر: بطاقات، أو السجل الكامل، أو <b>لوحة التحليل</b> وفيها الخريطة الحرارية، ورسوم المشاريع والقطاعات، وتوزيع الإنجاز، وشجرة تفتح «توسيع الكل» من القطاع إلى المشروع إلى كل عنصر.','On the KPI and risk pages: cards, the full register, or the <b>Analysis board</b> with a heat map, project and sector charts, achievement spread and a tree that “Expand all” opens from sector to project to each item.']},
+ {h:['🏛 المركز والقطاعات','🏛 Centre and sectors'],p:['لوحات للمركز ولكل قطاع: الأداء الموزون، وأعلى المخاطر، والموازنات، مع ملاحظات ذكية. تظهر لمن له صلاحية ذلك.','Dashboards for the centre and each sector: weighted performance, top risks and budgets, with smart notes. Shown to those allowed.']},
+ {h:['المتابعة الشهرية للمخاطر','Monthly risk follow-up'],p:['شريط يبيّن كم خطرًا رُوجع هذا الشهر، وقائمة بما لم يُراجع. «جولة المراجعة» تمرّ على المخاطر واحدًا بعد الآخر، وكل مراجعة تُسجَّل في تاريخ الخطر.','A bar shows how many risks were reviewed this month and lists those not yet reviewed. “Review round” walks through them one by one, and each review is logged in the risk’s history.']},
+ {h:['🧾 سجل التدقيق','🧾 Audit log'],p:['في صفحات المؤشرات والمخاطر والموازنات زر «سجل التدقيق» يعرض كل إدخال وتعديل: من، ومتى، والقيمة قبل وبعد.','On the KPI, risk and budget pages, “Audit log” shows every entry and change: who, when, and the value before and after.']},
+ {h:['🧩 الخصائص الاختيارية','🧩 Optional features'],p:['لمكتب التطوير: الإعدادات ← الخصائص الاختيارية. تشغيل أو إيقاف لكل المشاريع، أو لمشروع واحد من زر «الخصائص الاختيارية» في صفحة مؤشراته أو مخاطره. منها: مستهدفات مرحلية، ونوع تجميع المؤشر، وحدود ألوان خاصة، وربط المؤشر بهدف استراتيجي، والدرجة المركّبة، وتوقّع نهاية السنة، والخطة التصحيحية، واعتماد القراءات، والتذكير، والمكتبات الجاهزة، وتصعيد المخاطر، والأثر المالي، وإجراءات الاستجابة، والتقرير الشهري، و«تحديثات المؤشرات والمخاطر في مهامي».','For the office: Settings → Optional features. Switch on or off for every project, or for one project from “Optional features” on its KPI or risk page. They include interim targets, KPI aggregation, custom colour thresholds, links to strategic goals, a composite score, year-end forecast, corrective plans, reading approval, reminders, ready libraries, risk escalation, cost impact, response actions, the monthly report, and “KPI and risk updates in My tasks”.']}]},
 {id:'charter',ic:'📜',who:'pm',t:['ميثاق المشروع','Project charter'],lead:['الوثيقة التأسيسية. بعد اعتمادها يظهر المشروع في بقية الخدمات.','The founding document. Once approved the project appears in the other services.'],go:['charter.html','افتح المواثيق','Open charters'],items:[
  {h:['إعداد الميثاق','Preparing the charter'],p:['«＋ ميثاق جديد» ثم عبّئ التبويبات: عام (الاسم، الوصف، النوع، الهدف، الغرض، التواريخ، المالك، القطاع والإدارة، مدير المشروع، الميزانية)، السياق، أصحاب المصلحة والأنشطة، الموارد، المخاطر. علامة * تعني حقلًا إلزاميًا، وعلامة (؟) بجانب العنوان تشرح الحقل.','“＋ New charter”, then fill the tabs: General (name, description, type, goal, purpose, dates, owner, sector and department, project manager, budget), Context, Stakeholders and activities, Resources, Risks. A * means mandatory and the (?) next to a title explains the field.']},
  {h:['المالك ومدير المشروع','Owner and project manager'],p:['خانتا <b>مالك المشروع</b> و<b>مدير المشروع</b> قائمتان قابلتان للبحث من المستخدمين المسجّلين (مثل المكلّف في المهام). اكتب جزءًا من الاسم واختر. لا يُقبل اسم من خارج القائمة.','The <b>project owner</b> and <b>project manager</b> fields are searchable lists of registered users (like the assignee of a task). Type part of the name and choose. A name outside the list is not accepted.']},

diff --git a/sw.js b/sw.js
@@ -1,7 +1,6 @@
-// IDO service worker v3 — fast navigation:
-// pages open instantly from the device copy, then are refreshed from the network in the background.
-// If a newer version was downloaded, open pages get a message and show «تحديث جديد متاح».
-var HC = 'ido-html-v3', AC = 'ido-asset-v3' /* r2 */, KEEP = [HC, AC];
+// IDO service worker v4 — pages come from the network first (new versions show on the first open),
+// falling back to the saved copy when the network is slow or offline.
+var HC = 'ido-html-v4', AC = 'ido-asset-v3' /* r2 */, KEEP = [HC, AC];
 var PRE = ['index.html', 'tasks.html', 'inbox.html', 'myprojects.html', 'chat.html', 'charter.html', 'plan.html', 'cr.html', 'closure.html', 'account.html'];
 var OFF = '<!DOCTYPE html><html lang="ar" dir="rtl"><head><meta charset="utf-8"><meta name="viewport" content="width=device-width,initial-scale=1"><title>غير متصل</title></head><body style="font-family:system-ui,sans-serif;background:#f5f3ee;color:#23272b;display:flex;min-height:100vh;align-items:center;justify-content:center;text-align:center;margin:0"><div style="padding:24px"><div style="font-size:48px">📡</div><h2>لا يوجد اتصال بالإنترنت</h2><p>تأكد من الاتصال ثم أعد المحاولة.</p><button onclick="location.reload()" style="background:#0a6b3d;color:#fff;border:0;border-radius:10px;padding:12px 24px;font-size:16px">إعادة المحاولة</button></div></body></html>';
 
@@ -54,26 +53,22 @@ self.addEventListener('fetch', function (e) {
   if (r.method !== 'GET') return;
   var url = new URL(r.url);
 
-  // 1) page navigations (same origin): stale-while-revalidate
+  // 1) page navigations (same origin): network first, so a new version shows on the first open;
+  //    if the network is slow (over 2.5 s) or offline, the saved copy opens instead and is refreshed in the background
   if (r.mode === 'navigate' && url.origin === self.location.origin) {
     var key = pageKey(r.url);
     e.respondWith(caches.open(HC).then(function (c) {
-      return c.match(key).then(function (hit) {
-        var oldText = hit ? hit.clone().text() : null;
-        var cleared = hit ? c.delete(key + '?__upd').catch(function () {}) : Promise.resolve();
-        var net = fresh(r.url).then(function (res) {
-          if (res && res.ok && res.type === 'basic' && !res.redirected) {
-            var copy = res.clone();
-            if (hit) {
-              Promise.all([oldText, res.clone().text()]).then(function (t) {
-                c.put(key, copy).then(function () { if (t[0] !== t[1]) return cleared.then(function () { return c.put(key + '?__upd', new Response('1')); }).then(function () { tell({ t: 'ido-new', page: key }); refreshAll(c, key); }); });
-              }).catch(function () { c.put(key, copy); });
-            } else c.put(key, copy);
-          }
-          return res;
+      var net = fresh(r.url).then(function (res) {
+        if (res && res.ok && res.type === 'basic' && !res.redirected) { var copy = res.clone(); c.put(key, copy).then(function () { refreshAll(c, key); }); }
+        return res;
+      });
+      var slow = new Promise(function (ok) { setTimeout(function () { ok(null); }, 2500); });
+      return Promise.race([net.catch(function () { return null; }), slow]).then(function (res) {
+        if (res) return res;
+        return c.match(key).then(function (hit) {
+          if (hit) { e.waitUntil(net.catch(function () {})); return hit; }
+          return net.catch(function () { return new Response(OFF, { headers: { 'Content-Type': 'text/html;charset=utf-8' } }); });
         });
-        if (hit) { e.waitUntil(net.catch(function () {})); return hit; }
-        return net.catch(function () { return new Response(OFF, { headers: { 'Content-Type': 'text/html;charset=utf-8' } }); });
       });
     }));
     return;

diff --git a/myprojects.html b/myprojects.html
@@ -727,8 +727,9 @@ function rkItem(r,pnm){const k='r'+r.id,o=SHF===k;REG[k]=()=>rkItem((window.MR||
  return h+'</div>'}
 async function rkQuick(id){const y=window.scrollY;const r=await sb.rpc('upd_risk_review',{p_risk:id,p_trend:'same',p_note:null,p_resp:null});if(r.error)return toast(P(['تعذّر: ','Failed: '])+r.error.message);toast(P(['تمت المراجعة ✔ — القادمة ','Reviewed ✔ — next on '])+fd(dayN(r.data&&r.data.next)));await mrLoad(true)}
 async function rkRev(id){const b=document.querySelector('#rt_'+id+' .on'),v=b?b.dataset.v:'same',n=(document.getElementById('rn_'+id)||{}).value||'';const R0=(window.MR||[]).find(z=>z.id==id)||{},np=+((document.getElementById('qp_'+id)||{}).value||R0.prob),ni=+((document.getElementById('qi_'+id)||{}).value||R0.impact),chg=v!='same'&&(np!=+R0.prob||ni!=+R0.impact);
+ let extra='';if(chg){const q=await sb.rpc('risk_propose',{p_pcode:R0.pcode,p_risk:id,p_op:'update',p_data:{prob:np,impact:ni},p_note:P(['مراجعة: ','Review: '])+(v=='up'?P(['الخطر ازداد','risk increased']):P(['الخطر انخفض','risk decreased']))});extra=q.error?P([' — لم تُحدَّث الدرجة: لا تملك صلاحية تعديل السجل، وأُبلغ مدير المشروع',' — score not changed: you cannot edit the register; the project manager was told']):q.data&&q.data.applied?P([' — الدرجة الجديدة '+(np*ni),' — new score '+(np*ni)]):P([' — الدرجة الجديدة '+(np*ni)+' بانتظار اعتماد المكتب',' — new score '+(np*ni)+' awaiting office approval'])}else if(v!='same')extra=P([' — لم تغيّر الاحتمال أو الأثر، فبقيت الدرجة كما هي',' — probability and impact unchanged, score kept']);
  const r=await sb.rpc('upd_risk_review',{p_risk:id,p_trend:v,p_note:n.trim()||null,p_resp:null});if(r.error)return toast(P(['تعذّر: ','Failed: '])+r.error.message);
- let msg=P(['تمت المراجعة ✔ — القادمة ','Reviewed ✔ — next on '])+fd(dayN(r.data&&r.data.next));if(chg){const q=await sb.rpc('risk_propose',{p_pcode:R0.pcode,p_risk:id,p_op:'update',p_data:{prob:np,impact:ni},p_note:P(['مراجعة: ','Review: '])+(v=='up'?P(['الخطر ازداد','risk increased']):P(['الخطر انخفض','risk decreased']))});msg+=q.error?P([' — لم تُحدَّث الدرجة: لا تملك صلاحية تعديل السجل، وأُبلغ مدير المشروع',' — score not changed: you cannot edit the register; the project manager was told']):q.data&&q.data.applied?P([' — الدرجة الجديدة '+(np*ni),' — new score '+(np*ni)]):P([' — الدرجة الجديدة '+(np*ni)+' بانتظار اعتماد المكتب',' — new score '+(np*ni)+' awaiting office approval'])}else if(v!='same')msg+=P([' — لم تغيّر الاحتمال أو الأثر، فبقيت الدرجة كما هي',' — probability and impact unchanged, score kept']);toast(msg);shClose();await mrLoad(true)}
+ toast(P(['تمت المراجعة ✔ — القادمة ','Reviewed ✔ — next on '])+fd(dayN(r.data&&r.data.next))+extra);shClose();await mrLoad(true)}
 async function rkSave(id,pc){const g=k=>(document.getElementById(k+'_'+id)||{}).value;const d={prob:+g('rp'),impact:+g('ri'),due:g('rd')||null,status:g('rs'),response:g('rr')||''};
  const r=await sb.rpc('risk_propose',{p_pcode:pc,p_risk:id,p_op:'update',p_data:d,p_note:P(['تحديث من مساحة عملي','Updated from my workspace'])});
  if(r.error)return toast(/not allowed/.test(r.error.message)?P(['لا تملك صلاحية تعديل سجل هذا المشروع؛ استخدم «مراجعة سريعة» أو اطلب من مدير المشروع.','You cannot edit this register; use quick review or ask the project manager.']):P(['تعذّر: ','Failed: '])+r.error.message);

diff --git a/tour/index.html b/tour/index.html
@@ -202,7 +202,7 @@ body.pres #pv{display:grid;position:fixed;inset:0;grid-template-columns:1.4fr 1f
 <div id="jump"><form><label id="jl"></label><input id="ji" type="number" min="1" inputmode="numeric"><button id="jb"></button></form></div>
 <div id="flash"></div><div id="toast"></div><div id="digits"></div>
 <div id="pv"></div>
-<script src="scenes.js?v=8"></script>
+<script src="scenes.js?v=9"></script>
 <script src="steps.js?v=5"></script>
 <script>
 (function(){
